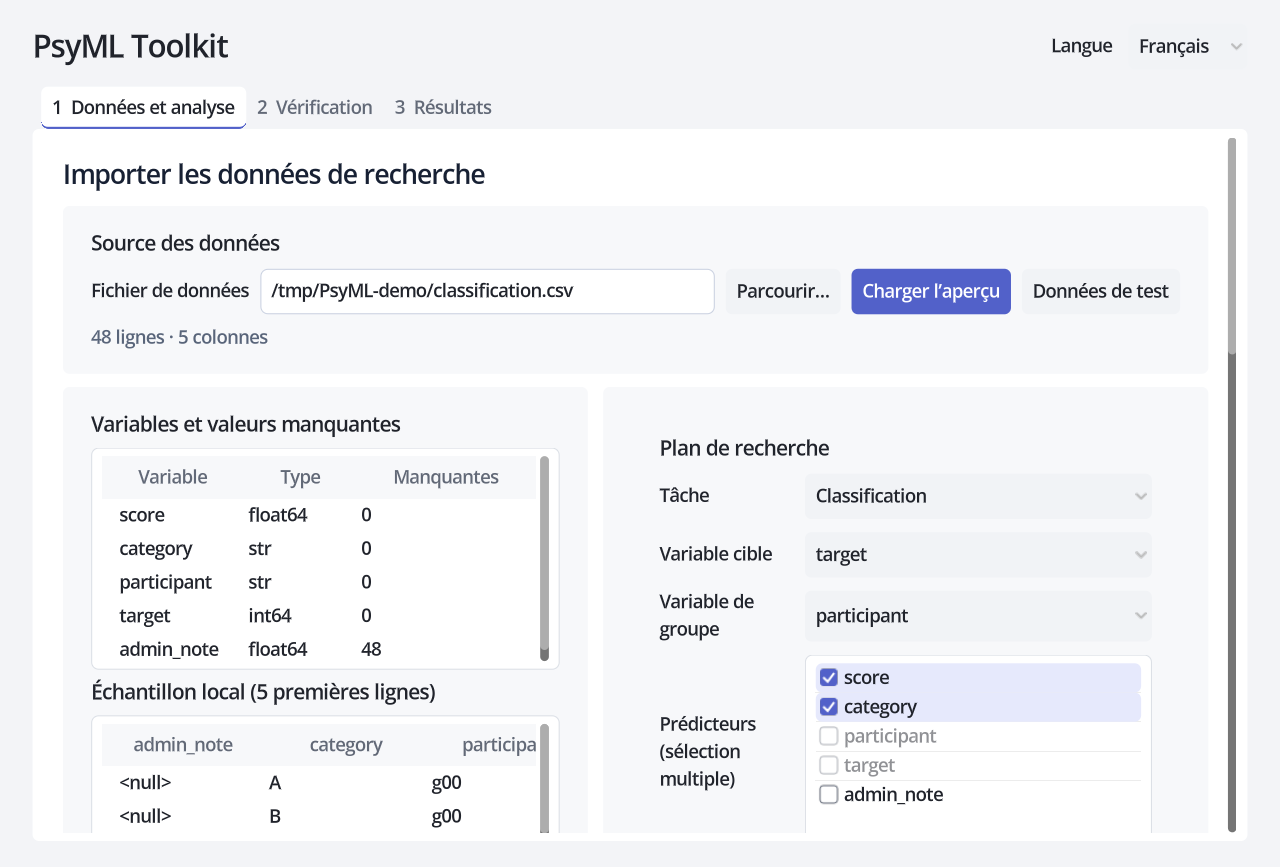
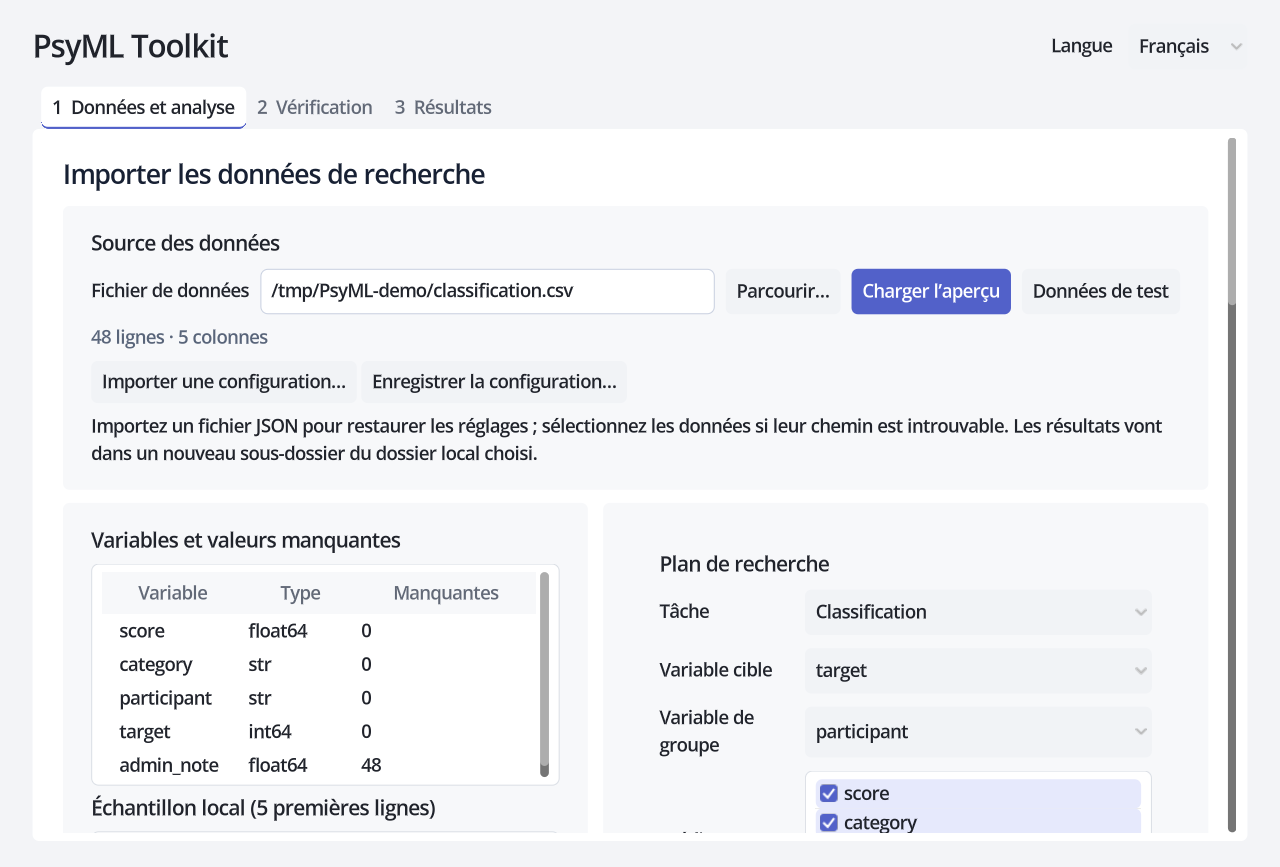
Verify bundled GUI runs and refresh multilingual import documentation

diff --git a/tools/build_native.py b/tools/build_native.py
@@ -22,6 +22,7 @@ def main():
     parser = argparse.ArgumentParser()
     parser.add_argument("--godot", default="godot")
     args = parser.parse_args()
+    args.godot = shutil.which(args.godot) or args.godot
     mac = sys.platform == "darwin"
     if not mac and sys.platform != "win32":
         raise SystemExit("Build on Apple Silicon macOS or Windows x64")
@@ -85,11 +86,13 @@ def main():
     executable = next(path for path in binary_dir.iterdir()
                       if path.is_file() and (path.suffix == ".exe" if not mac
                                              else os.access(path, os.X_OK)))
+    report_path = ROOT / "tmp/native/smoke-report.txt"
+    report_path.unlink(missing_ok=True)
+    environment["PSYML_SMOKE_REPORT"] = str(report_path)
     gui_smoke = subprocess.run(
-        [str(executable), "--headless", "--script",
-         str(ROOT / "gui/tests/test_native_bundle.gd")], cwd=destination,
+        [str(executable), "--headless", "--verbose", "--", "--psyml-smoke-test"], cwd=destination,
         env=environment, check=True, capture_output=True, text=True, timeout=420)
-    if "PSYML_NATIVE_BUNDLE_OK" not in gui_smoke.stdout or "SCRIPT ERROR" in gui_smoke.stderr:
+    if not report_path.exists() or report_path.read_text() != "PSYML_NATIVE_BUNDLE_OK":
         raise RuntimeError(gui_smoke.stdout + gui_smoke.stderr)
     print(gui_smoke.stdout)
     archive = destination.with_suffix(".zip")

diff --git a/docs/TESTING.md b/docs/TESTING.md
@@ -51,3 +51,13 @@ Installer selon le README et exécuter les commandes ci-dessus à la racine. `te
 Définir `PSYML_PYTHON` avec l’environnement installé : `.venv/bin/python` sous macOS/Linux, `.venv/Scripts/python.exe` sous Windows. Les commandes propres à chaque système sont données plus haut. Les tests GUI nécessitent Godot 4.7.2.
 
 Vérification manuelle : classification, cible `target`, groupe `participant`, prédicteurs `score` et `category`, Decision Tree et Dummy, K plis par groupes avec 3 plis externes/2 internes. Ajouter holdout sans validation principale. Les résultats doivent commencer par un sélecteur neutre ; vérifier chaque validation, les trois langues sans perte des choix et le défilement des pages/tableaux, puis lancer la régression. Vérifier aussi copie des erreurs, arrêt et reprise. Les avertissements R² sur de minuscules tests sont attendus. La réussite automatique ne valide pas le plan scientifique ; consulter séparément le CI du commit pour chaque système.
+
+## Configuration import / 配置导入 / Importation de configuration
+
+中文：仅测试配置导入时，打开应用，在第 1 页点击“导入配置…”，选择附带的 `examples/synthetic/classification_config.json`。确认目标为 `target`、分组为 `participant`、预测变量为 `score` 和 `category`，模型为 Decision Tree，验证为 Group K Fold。切换中英法语言，确认设置保留。点击“保存配置…”，重新导入所存文件，然后运行一次。再导入回归配置，确认任务和模型切换为回归与 Ridge。将配置复制到另一目录、临时改名原数据，再导入，确认出现重新选择数据的窗口；取消应保留当前设置。测试后恢复数据文件名。GUI 始终使用本机所选输出文件夹的新子目录。
+
+English: Open the app and click **Import configuration…** on page 1. Choose the bundled `examples/synthetic/classification_config.json`. Verify target `target`, group `participant`, predictors `score` and `category`, Decision Tree and Group K Fold. Switch among all three languages and verify settings persist. Save the configuration, reimport it and run once. Import the regression example and check Regression and Ridge. Copy a configuration elsewhere, temporarily rename its data, and import: a data-relink dialog should appear. Cancelling must preserve the current settings. Restore the data filename afterward. GUI output always goes to a fresh subfolder of the selected local directory.
+
+Français : ouvrez l’application et cliquez sur **Importer une configuration…** à la page 1. Choisissez `examples/synthetic/classification_config.json`. Vérifiez cible `target`, groupe `participant`, prédicteurs `score` et `category`, Decision Tree et Group K Fold. Changez de langue et vérifiez la conservation des réglages. Enregistrez, réimportez et lancez une analyse. Importez l’exemple de régression et vérifiez Régression et Ridge. Copiez le JSON ailleurs, renommez temporairement ses données puis importez : une boîte de dialogue doit permettre de les réassocier. Annuler conserve les réglages actuels. Rétablissez ensuite le nom du fichier. Chaque exécution utilise un nouveau sous-dossier local.
+
+Developer checks: `tests/test_gui_config.py`, `gui/tests/test_config_import.gd`, and `gui/tests/test_native_bundle.gd`. The native smoke test runs classification and regression through the exported GUI and bundled core, with development Python variables removed. `.github/workflows/native-test-build.yml` retains Windows test artifacts and never publishes a release.

diff --git a/docs/RESEARCHER_GUIDE_FR.md b/docs/RESEARCHER_GUIDE_FR.md
@@ -273,3 +273,7 @@ Vérifier d’abord cible, prédicteurs, groupes et traitement des valeurs manqu
 Le comportement du projet suit le [catalogue](../src/psyml/models/catalog.py), la [fabrique](../src/psyml/models/factory.py), les [métriques](../src/psyml/evaluation/metrics.py), les [partitions](../src/psyml/validation/split.py), le [moteur](../src/psyml/runner.py) et les [rapports](../src/psyml/reporting/research.py). Les défauts et comportements peuvent évoluer ; vérifier les versions dans `analysis_manifest.json` pour reproduire une analyse.
 
 Pour les principes généraux, consulter les références scikit-learn sur les [métriques](https://scikit-learn.org/stable/modules/model_evaluation.html), les [modèles linéaires](https://scikit-learn.org/stable/modules/linear_model.html), les [ensembles](https://scikit-learn.org/stable/modules/ensemble.html), la [validation croisée](https://scikit-learn.org/stable/modules/cross_validation.html) et l’[exemple de validation imbriquée](https://scikit-learn.org/stable/auto_examples/model_selection/plot_nested_cross_validation_iris.html). Ces liens ne signifient pas que PsyML implémente toutes les fonctionnalités décrites.
+
+## Reproduire à partir d’une configuration
+
+À la page 1, **Importer une configuration…** ouvre un exemple fourni, le `config.json` d’un résultat ou `best_parameters_configure.json`, sans terminal. Réassociez les données correspondantes si leur chemin est introuvable ; les colonnes requises sont vérifiées. Vérifiez variables, validation et paramètres, puis choisissez un dossier local et lancez à la page 2. Chaque exécution crée un nouveau sous-dossier sans réutiliser le chemin de sortie importé. **Enregistrer la configuration…** conserve les réglages. Relancer les meilleurs paramètres fixes ne reproduit pas la recherche originale et ne constitue pas une validation indépendante.

diff --git a/docs/RESEARCHER_GUIDE_EN.md b/docs/RESEARCHER_GUIDE_EN.md
@@ -273,3 +273,7 @@ Check the target, predictors, groups and missing-value handling first; then warn
 Project behavior follows the [catalog](../src/psyml/models/catalog.py), [factory](../src/psyml/models/factory.py), [metrics](../src/psyml/evaluation/metrics.py), [splits](../src/psyml/validation/split.py), [runner](../src/psyml/runner.py) and [reporting code](../src/psyml/reporting/research.py). Defaults and behavior can change across versions; check `analysis_manifest.json` when reproducing a run.
 
 For general principles, consult scikit-learn's [metrics](https://scikit-learn.org/stable/modules/model_evaluation.html), [linear models](https://scikit-learn.org/stable/modules/linear_model.html), [ensembles](https://scikit-learn.org/stable/modules/ensemble.html), [cross-validation](https://scikit-learn.org/stable/modules/cross_validation.html) and [nested-validation example](https://scikit-learn.org/stable/auto_examples/model_selection/plot_nested_cross_validation_iris.html). These references do not imply that every feature they describe is implemented in PsyML.
+
+## Reproduce from a configuration
+
+On page 1, **Import configuration…** opens a bundled example, a result folder’s `config.json`, or `best_parameters_configure.json`; no terminal is required. Relink the corresponding data if its path is unavailable; required columns are checked. Review variables, validation and parameters, then choose a local output folder and run on page 2. Each run creates a new subfolder instead of reusing the imported output path. **Save configuration…** saves current settings. Rerunning fixed best parameters neither reproduces the original search nor provides independent validation.

diff --git a/docs/RESEARCHER_GUIDE_ZH.md b/docs/RESEARCHER_GUIDE_ZH.md
@@ -273,3 +273,7 @@ R² 分母为零时，上面的普通公式不适用。当前调用遵循 scikit
 本项目行为以[模型目录](../src/psyml/models/catalog.py)、[模型工厂](../src/psyml/models/factory.py)、[指标实现](../src/psyml/evaluation/metrics.py)、[验证切分](../src/psyml/validation/split.py)、[运行逻辑](../src/psyml/runner.py)、[结果报告](../src/psyml/reporting/research.py)为准。默认值与行为可能随版本改变；复现时核对 `analysis_manifest.json` 中记录的版本。
 
 通用原理可继续阅读 scikit-learn 的[指标说明](https://scikit-learn.org/stable/modules/model_evaluation.html)、[线性模型](https://scikit-learn.org/stable/modules/linear_model.html)、[集成模型](https://scikit-learn.org/stable/modules/ensemble.html)、[交叉验证](https://scikit-learn.org/stable/modules/cross_validation.html)及[嵌套验证示例](https://scikit-learn.org/stable/auto_examples/model_selection/plot_nested_cross_validation_iris.html)。这些参考不意味着项目实现了文档中所有功能。
+
+## 从配置快速复现
+
+应用第 1 页的“导入配置…”可读取附带示例、结果目录的 `config.json`，或固定参数文件 `best_parameters_configure.json`；无需命令行。数据路径失效时，重新选择对应数据；程序会核对所需列。检查变量、验证与参数后，在第 2 页选择本机输出目录并运行。每次建立新的结果子目录，导入的输出路径不会被沿用。“保存配置…”可保存当前设置。固定最佳参数的再运行不重现原搜索，也不是独立验证。
